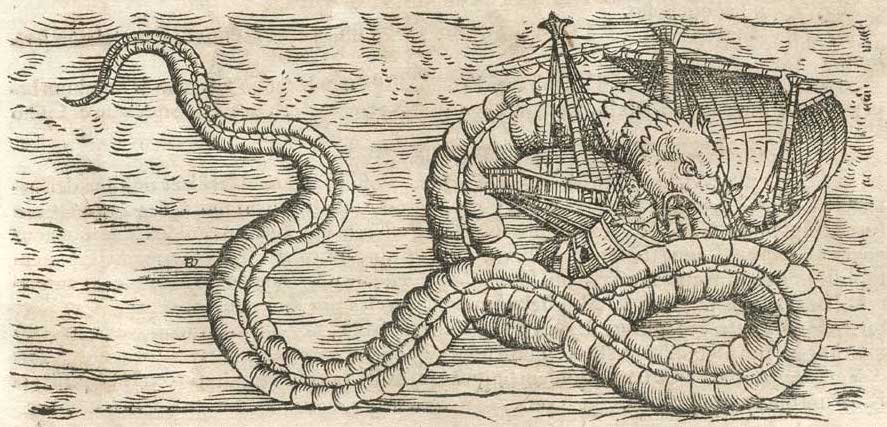
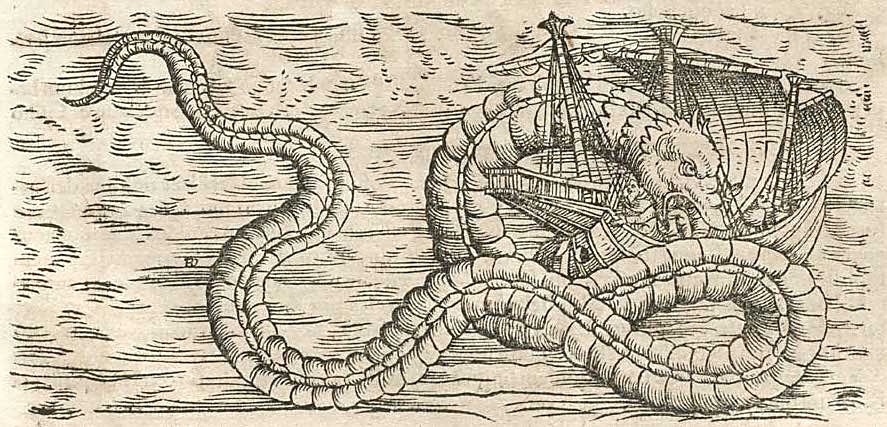
Align to the map box, unfix the marginalia, straighten the dragon
Four fixes, all from the same round of feedback.

ALIGNMENT. "The box the map is inside of" is `.chart-plate`, and it does not
sit in line with the other panels — it measures 210 where the conditions strip
measures 234 on a 1600px window. --panel-left was reading the conditions strip,
so the galleon sat exactly that 24px too far right. It reads the chart plate
now. The plate also comes out ~10% smaller as a consequence (655 -> 590 at
1600), since its width is derived from the same number.

  vw     map box   galleon off by   plate's left edge
  1400   110       -0.19px          -26.3
  1600   210       -0.01px          -41.0
  1920   370       -0.11px          -64.4

NOT FIXED. The marginalia layer was `position: fixed` while the colophon's sea
orm scrolled — the worst of both, some creatures travelling with the viewport
and one staying with its block. The layer is now absolute over the whole
document (`inset: 0` against a positioned body), so every plate scrolls and
belongs to a place on the page rather than a corner of the screen. The gutter
and corner positions are re-read against the document accordingly.

FOG. The middle plate is a soft woodcut — a quarter of it was mid-tone wash,
which the ink filter turns into fog. Fixed at the image, not with opacity: a
55% unsharp mask lifts its contours 47% while keeping 70% of the wash. A first
pass at 105% was too strong and flattened it — solid ink 4.1% -> 16% and the
[…]

diff --git a/style.css b/style.css
@@ -137,8 +137,15 @@
 .gnd-rhumb-main { stroke-width: 1; opacity: 0.24; }
 .gnd-ring { fill: none; stroke: var(--coffee); stroke-width: 1; opacity: 0.34; }
 
+/* Absolute over the whole document, NOT fixed to the viewport. They used to be
+   fixed while the sea orm in the colophon scrolled, which is the worst of both:
+   some creatures travelled with you and one stayed with its block. Everything
+   scrolls now, so a plate belongs to a place on the page rather than to a
+   corner of the screen.
+   `inset: 0` against a positioned <body> stretches this to the document's full
+   height, so `bottom` on a plate means the foot of the PAGE. */
 .marginalia {
-  position: fixed;
+  position: absolute;
   inset: 0;
   z-index: 0;
   pointer-events: none;
@@ -185,7 +192,7 @@
    it does not depend on there being a margin at all. */
 .marg.marg-corner {
   top: auto;
-  bottom: 0;
+  bottom: 2%;
   width: clamp(130px, 29vw, 460px);
 }
 /* Both bottom plates bleed DOWN off the page as well as sideways. Sitting them
@@ -195,7 +202,8 @@
 .marg.marg-dragon {
   right: 0;
   aspect-ratio: 800 / 769;
-  transform: translate(24%, 12%) rotate(5deg) scaleX(-1);
+  /* Upright. The tilt read as a plate that had slipped, not as one placed. */
+  transform: translate(24%, 12%) scaleX(-1);
 }
 /* Anchored so the galleon at the top of the plate lines up with the left edge
    of the content column. The hull begins 38.3% across the image — measured off
@@ -249,7 +257,7 @@
 }
 
 @media (min-width: 1400px) {
-  .marg.marg-dragon { transform: translate(12%, 7%) rotate(5deg) scaleX(-1); }
+  .marg.marg-dragon { transform: translate(12%, 7%) scaleX(-1); }
   .marg.marg-kraken { transform: translate(min(0px, calc(var(--panel-left, 0px) - 38.3%)), 15%) rotate(3deg); }
 }
 
@@ -344,7 +352,8 @@ body::after {
      chart rather than disappearing behind one of them. */
   .marg-unicorn {
     left: 0;
-    top: 24%;
+    /* A fifth of the way down the DOCUMENT now that the layer is not fixed. */
+    top: 20%;
     aspect-ratio: 575 / 431;
     transform: rotate(-4deg);
   }
@@ -371,6 +380,7 @@ body::after {
    colour cannot.
    ========================================================================== */
 body {
+  position: relative;   /* the marginalia layer measures itself against this */
   margin: 0;
   background-color: var(--parchment);
   background-image:
@@ -1391,10 +1401,16 @@ a:hover { color: var(--coffee-deep); }
    gutters it would have had to be cropped to a column, which costs either the
    coils or the ship, and the two together are the picture.
    
-   Its opacity is lower than every other plate and that figure is measured, not
-   chosen: the colophon's text sits directly on top of it, and at 0.34 the
-   darkest ink the filter can put under a letter still leaves 4.6:1. At 0.4 it
-   is 4.2:1 and fails. */
+   It reads fainter than the plates either side of it because its source is a
+   soft woodcut — a quarter of it was mid-tone wash, which the ink filter turns
+   into fog. Fixed at the image rather than here: a 55% unsharp mask lifts its
+   contours 47% while keeping 70% of the wash. Raising opacity alone would have
+   darkened the fog as much as the lines, which is the thing that looks foggy.
+   
+   The opacity is still the lowest on the page and that figure is measured, not
+   chosen: the colophon's text sits over the top of the plate, and 0.34 is where
+   the darkest ink the filter can put under a letter still leaves 4.6:1. At 0.4
+   it is 4.2:1 and fails AA. */
 .colophon { position: relative; }
 .marg-orm {
   position: absolute;
@@ -1421,7 +1437,7 @@ a:hover { color: var(--coffee-deep); }
   width: min(560px, 56%);
   aspect-ratio: 887 / 427;
   z-index: -1;
-  opacity: 0.32;
+  opacity: 0.34;
   transform: translateX(-50%) rotate(-1deg);
 }
 /* Below this the colophon collapses to a single narrow column and a 2.08:1

diff --git a/app.js b/app.js
@@ -1436,21 +1436,25 @@ function renderShell(swell, wind, tide, forecast, errors, tidePending) {
 }
 
 /**
- * Publish where the content column's VISIBLE edge actually is, as --panel-left.
+ * Publish the left edge of the chart plate as --panel-left.
  *
- * The kraken in the bottom-left margin is positioned so its galleon lines up
- * with that edge, and every previous attempt computed it as
- * `calc((100vw - 1180px) / 2)` — the wrap's border box. That is not where the
- * panels start: they begin one padding further in, and the padding changes with
- * the viewport. So the ship was landing a fixed distance short at every width,
- * and each "fix" was refining the wrong target.
+ * The kraken in the bottom-left margin lines its galleon up with that edge.
+ * Every earlier attempt computed it instead — `calc((100vw - 1180px) / 2)` —
+ * and was wrong twice over: that is the wrap's border box, not where a panel
+ * starts, and the panels do not even agree with each other.
  *
  * Measured rather than derived, because the value depends on padding that
  * lives in media queries; anything computed in CSS has to duplicate those
  * rules and will drift the moment one of them changes.
  */
 function publishColumnEdge() {
-  const panel = document.querySelector(".conditions") || document.querySelector(".wrap");
+  // The chart plate specifically — "the box the map is inside of". It is NOT
+  // in line with the other panels: it measures 210 where the conditions strip
+  // measures 234 on a 1600px window, a 24px difference that is exactly what
+  // read as the ship sitting too far right.
+  const panel = document.querySelector(".chart-plate")
+             || document.querySelector(".conditions")
+             || document.querySelector(".wrap");
   if (!panel) return;
   const x = Math.max(0, Math.round(panel.getBoundingClientRect().left));
   document.documentElement.style.setProperty("--panel-left", `${x}px`);
